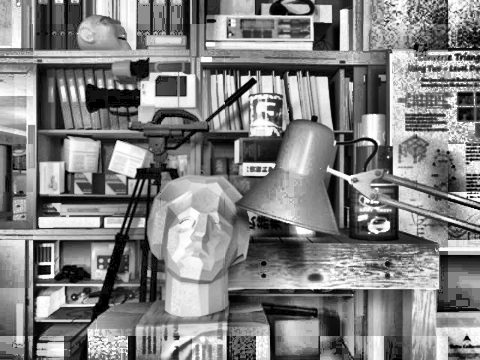
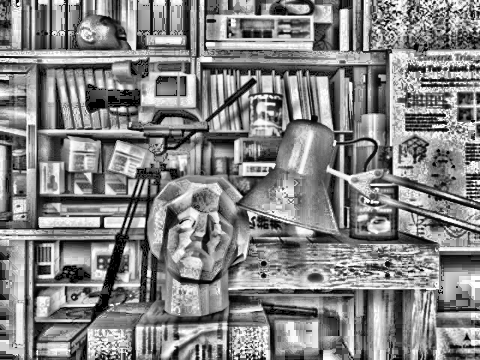
takes care of pixel == center

diff --git a/Assignment 1/adaptive_hist_eq.py b/Assignment 1/adaptive_hist_eq.py
@@ -74,22 +74,32 @@ def perform_adaptive_hist_equalization(img_array: np.ndarray,region_len_h: int,r
                 h_up, h_down = None, None
 
                 for i in contextual_neighbours:
-                    if i[1] < x and (w_left is None or i[1] > w_left):
+                    if i[1] <= x and (w_left is None or i[1] > w_left):
                         w_left = i[1]
                     if i[1] >= x and (w_right is None or i[1] < w_right):
                         w_right = i[1]
-                    if i[0] > y and (h_down is None or i[0] < h_down):
+                    if i[0] >= y and (h_down is None or i[0] < h_down):
                         h_down = i[0]
                     if i[0] <= y and (h_up is None or i[0] > h_up):
                         h_up = i[0]
                 
                 if w_left is None or w_right is None or h_up is None or h_down is None:
-                    transform = transformation_dict[(block_j * region_len_h, block_i * region_len_w)]
-                    equalized_img[y, x] = transform[pixel_value]
+                    # transform = transformation_dict[(block_j * region_len_h, block_i * region_len_w)]
+                    # equalized_img[y, x] = transform[pixel_value]
+                    if w_left is None:
+                        w_left = x
+                    if w_right is None:
+                        w_right = x
+                    if h_up is None:
+                        h_up = y
+                    if h_down is None:
+                        h_down = y
+                    print(w_left, w_right, h_up, h_down)
                     # raise ValueError("Could not find four closest centers for pixel ({}, {})".format(y, x))
                 
                 else:
                 # Calculate interpolation weights
+                    # print(w_left, w_right, h_up, h_down)
                     a = (x - w_left) / (w_right - w_left) if w_right != w_left else 0.5
                     b = (y - h_down) / (h_up - h_down) if h_up != h_down else 0.5
 
@@ -106,7 +116,7 @@ def perform_adaptive_hist_equalization(img_array: np.ndarray,region_len_h: int,r
                         (1 - a) * b * T_bl[pixel_value] +
                         (1 - a) * (1 - b) * T_tl[pixel_value]
                     )
-                    equalized_img[y, x] = np.round(interpolated_value)
+                    equalized_img[y, x] = interpolated_value
 
     return equalized_img
 

diff --git a/Assignment 1/demo.py b/Assignment 1/demo.py
@@ -15,7 +15,7 @@ img_array = np.array(bw_img)
 
 # Perform adaptive histogram equalization on the image array
 # with given region sizes for the local histograms
-new_img_array = perform_adaptive_hist_equalization(img_array, region_len_h=48, region_len_w=64)
+new_img_array = perform_adaptive_hist_equalization(img_array, region_len_h=20, region_len_w=19)
 
 # Ensure the new image array is in the correct byte range and data type
 new_img_array = np.clip(new_img_array, 0, 255).astype(np.uint8)
